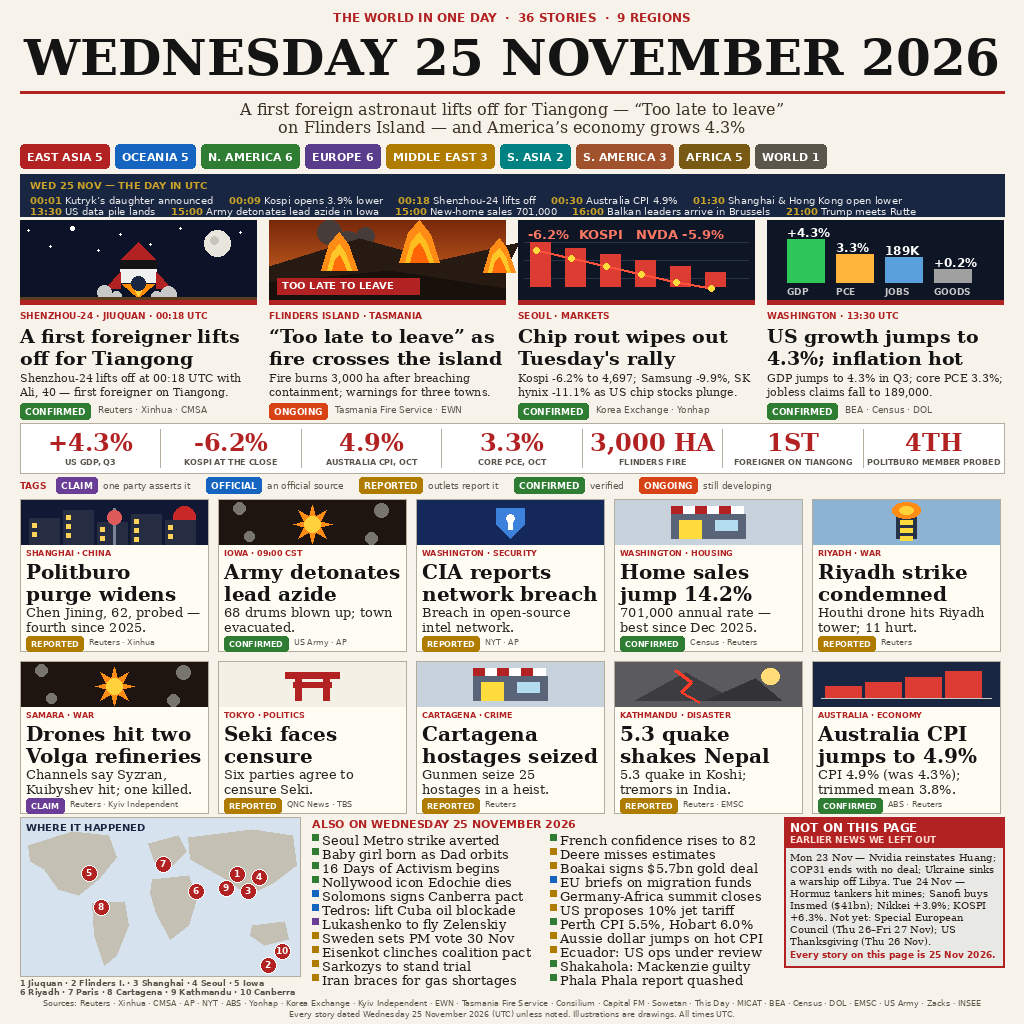
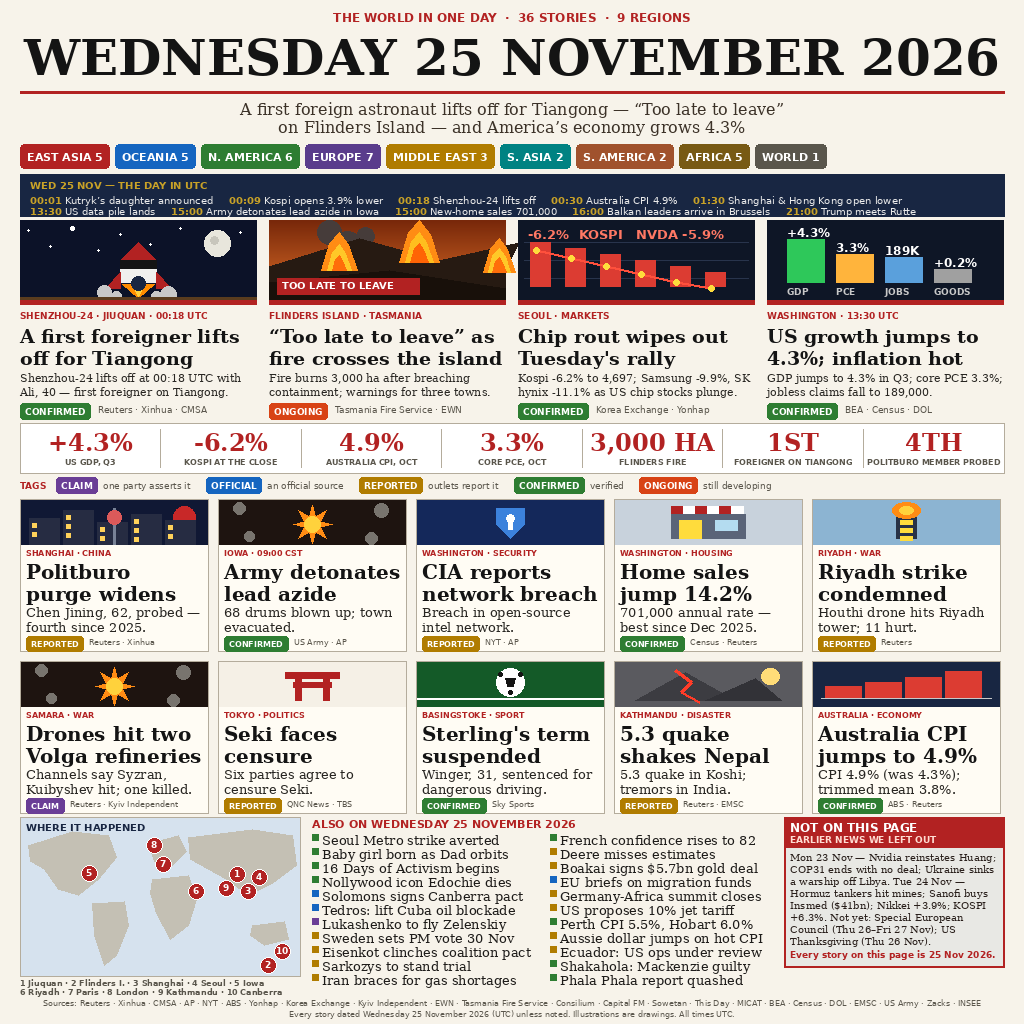
n25 v14: sport breadth — Sterling sentence replaces Cartagena hostages

Changed region(s): [[0.4062, 0.625, 0.5938, 0.8125], [0.125, 0.8125, 0.1562, 0.8438], [0.0938, 0.875, 0.125, 0.9062]]

diff --git a/paint_n25.py b/paint_n25.py
@@ -1,20 +1,28 @@
 #!/usr/bin/env python3
 """Paint the n25 news-image entry: one page, 1024x1024, PIL only.
 
-Wednesday 25 November 2026, 36 stories, 9 regions. v12 — the fix round
-after v11 (loop rule, Khase 22:46 WIB): TAG GRANULARITY, the clearest
-remaining lever from the v11 duel tails (cited in TWO duels: zesty call 2
-gives faithfulness to zesty's CLAIM/OFFICIAL/REPORTED system + legend;
-v9 call 2 complains our tags are flat). New CLAIM tag (purple: one party
-asserts it, no independent confirmation) and OFFICIAL tag (blue: an
-official source states it), plus a one-line TAGS legend strip between the
-stats band and the grid using the real chips. Volga refineries move
-REPORTED -> CLAIM with "Channels say" hedging (Reuters could not
-independently verify); WHO / Solomons pact / EU migration brief move to
-OFFICIAL; Lukashenko's Zelenskiy flight moves to CLAIM. DATE CHECK box
-kept (net positive in v11 duels); chip lead heroes kept; Deere/Sarkozy
-stay demoted (v10 tails called them thin; the judge's grid-breadth
-preference is contradictory across calls — panel noise, not a lever).
+Wednesday 25 November 2026, 36 stories, 9 regions. v14 — the fix round
+after v13 (loop rule, Khase 22:46 WIB): SPORT BREADTH, the clearest
+remaining lever from the v13 duel tails (the coherent superskie retry
+call credits superskie's breadth across sport/crypto/science/health/
+cricket vs our economy/politics/war/disaster-heavy grid — we had NO
+sport story). One verified 25-Nov sport story promoted into the grid:
+Raheem Sterling's suspended jail sentence (Sky Sports, Wed 25 Nov
+11:37 UK — ex-England winger, 31, 12-month term suspended 18 months
+for dangerous driving, 2-year ban, 100 hours unpaid work) replaces the
+weakest grid card (Cartagena hostages — a thin crime story, not in the
+timeline or stat strip, so nothing else orphans). The Tuesday-evening
+Champions League results (Real Madrid 5-1 PSV, Arsenal 1-1 Dortmund,
+Man City 2-2 Napoli) were REJECTED: they happened Tue 24 Nov UTC, and
+the Liverpool 1-4 PSV result the search returns is 26 Nov 2025, a full
+year earlier — both would break the page's own date rule. Region chips
+EUROPE 6->7, S. AMERICA 3->2 (Cuba counts as S. AMERICA in this
+accounting, so the region survives with 2); map pin 8 moves from
+Cartagena to southern England (legend labels it London; the kicker
+names the court town, Basingstoke). Everything else frozen from v13: tags +
+legend, DATE CHECK closing "Every story on this page is 25 Nov 2026",
+Seki censure, Tedros Cuba line, chip lead heroes, 36 stories, zero
+fillers.
 Layout tightened ~19px to fund the 18px legend strip (masthead sub -2,
 regions -2, timeline -2, heroes -2, hero illo 85->80, gaps 6->4, stats
 54->50); old tiny legend under DATE CHECK removed (replaced by the strip).
@@ -272,10 +280,10 @@ REGION_CHIPS = [
     ("EAST ASIA 5", (178, 34, 34)),
     ("OCEANIA 5", (21, 101, 192)),
     ("N. AMERICA 6", (46, 125, 50)),
-    ("EUROPE 6", (90, 60, 140)),
+    ("EUROPE 7", (90, 60, 140)),
     ("MIDDLE EAST 3", (176, 124, 0)),
     ("S. ASIA 2", (0, 130, 130)),
-    ("S. AMERICA 3", (160, 82, 45)),
+    ("S. AMERICA 2", (160, 82, 45)),
     ("AFRICA 5", (120, 90, 20)),
     ("WORLD 1", (90, 86, 76)),
 ]
@@ -716,9 +724,9 @@ GRID = [
     ("TOKYO · POLITICS", "Seki faces censure",
      "Six parties agree to censure Seki.",
      "REPORTED", "QNC News · TBS", ban_torii),
-    ("CARTAGENA · CRIME", "Cartagena hostages seized",
-     "Gunmen seize 25 hostages in a heist.",
-     "REPORTED", "Reuters", ban_store),
+    ("BASINGSTOKE · SPORT", "Sterling's term suspended",
+     "Winger, 31, sentenced for dangerous driving.",
+     "CONFIRMED", "Sky Sports", ban_ball),
     ("KATHMANDU · DISASTER", "5.3 quake shakes Nepal",
      "5.3 quake in Koshi; tremors in India.",
      "REPORTED", "Reuters · EMSC", ban_quake),
@@ -809,7 +817,7 @@ CONTINENTS = [
 
 PINS = [
     (217, 57, "1"), (248, 148, "2"), (228, 74, "3"), (239, 60, "4"),
-    (69, 56, "5"), (176, 74, "6"), (143, 47, "7"), (81, 90, "8"),
+    (69, 56, "5"), (176, 74, "6"), (143, 47, "7"), (134, 28, "8"),
     (206, 71, "9"), (262, 134, "10"),
 ]
 
@@ -902,7 +910,7 @@ def draw_bottom(draw, y, band_h):
               "1 Jiuquan · 2 Flinders I. · 3 Shanghai · 4 Seoul · 5 Iowa",
               font=f_leg, fill=MUTED)
     draw.text((mx, y + band_h - 5),
-              "6 Riyadh · 7 Paris · 8 Cartagena · 9 Kathmandu · 10 Canberra",
+              "6 Riyadh · 7 Paris · 8 London · 9 Kathmandu · 10 Canberra",
               font=f_leg, fill=MUTED)
     draw_also_on(draw, ax, y, also_w, band_h)
     draw_date_check(draw, dx, y, dc_w)

diff --git a/main.py b/main.py
@@ -1,5 +1,5 @@
 #!/usr/bin/env python3
-"""news-image-20261125 entrypoint (v13).
+"""news-image-20261125 entrypoint (v14).
 
 The graded artifact is the committed entry.png, rendered once by
 paint_n25.py in this session. This entrypoint only copies that file to
